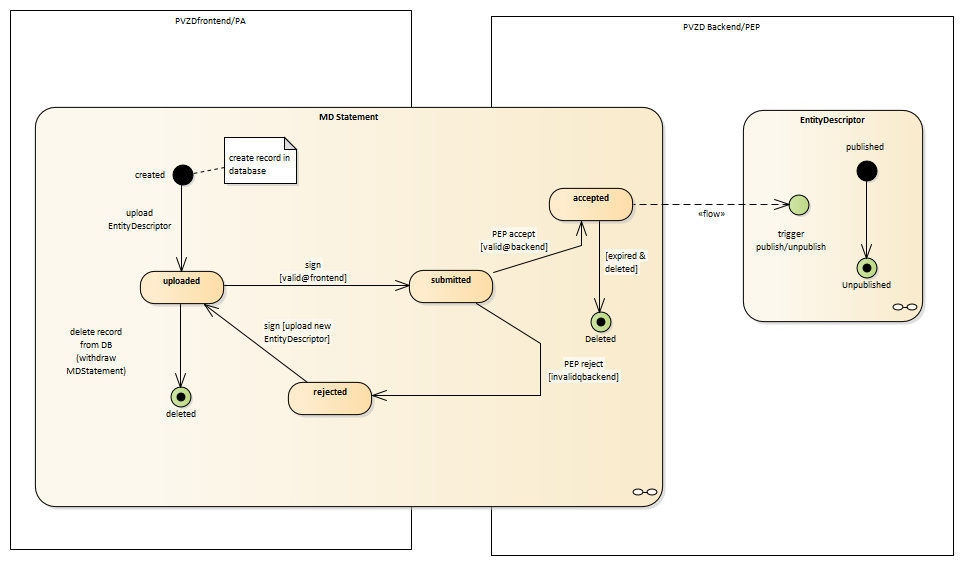
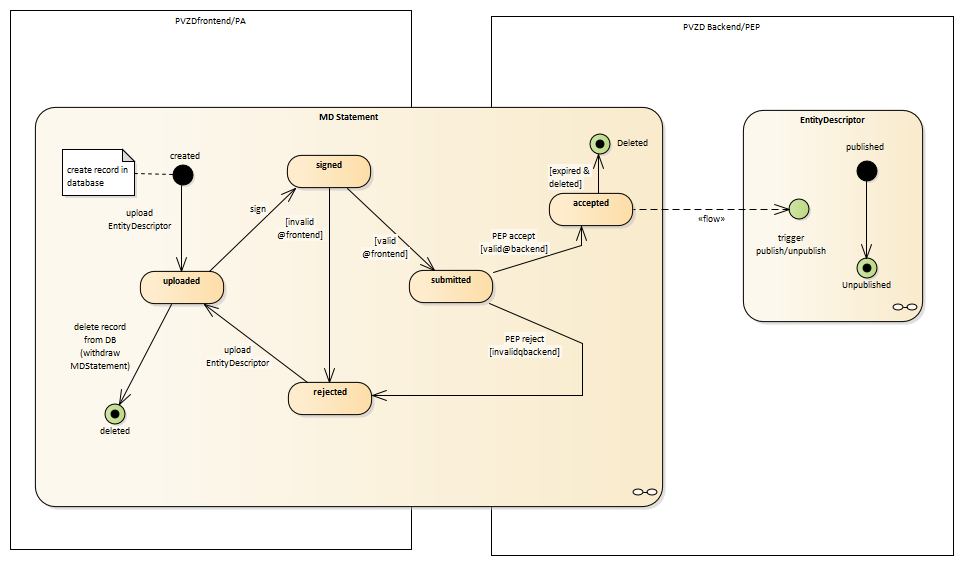
MDS: refactor sign_and-update changelist action (separate module)

diff --git a/portaladmin/models/MDstatement.py b/portaladmin/models/MDstatement.py
@@ -24,6 +24,7 @@ class MDstatementAbstract(models.Model):
         super(MDstatementAbstract, self).__init__(*args, **kw)
         self._ed_uploaded_old = self.ed_uploaded
         self._ed_signed_old = self.ed_signed
+        self._ed_file_upload_name_old = self.ed_file_upload.name
 
     status = models.CharField(
         verbose_name='Workflow Status',
@@ -161,23 +162,36 @@ class MDstatementAbstract(models.Model):
         pass
 
     def save(self, *args, **kwargs):
-        if self.ed_file_upload and self.ed_file_upload.file:
-            self.ed_uploaded = self.ed_file_upload.file.read().decode('utf-8')
-            self.ed_signed = None
-        if self.status == STATUS_ACCEPTED:
-            raise ValidationError(_('Cannot change if status = ' + STATUS_ACCEPTED), code='invalid')
-        if self.ed_uploaded:
-            if self.ed_uploaded != self._ed_uploaded_old and \
-               self.status in (STATUS_CREATED, STATUS_REJECTED, STATUS_UPLOADED):
-                self.status = STATUS_UPLOADED
+        def _fail_if_updating_not_allowed():
+            if self.status == STATUS_ACCEPTED:
+                raise ValidationError(_('Cannot change if status = ' + STATUS_ACCEPTED), code='invalid')
+
+        def _read_uploaded_file_on_change():
+            if self.ed_file_upload.file:
+                ed_file_upload_name_new = self.ed_file_upload.file.name or ''
+                if self._ed_file_upload_name_old != ed_file_upload_name_new:
+                    self.ed_uploaded = self.ed_file_upload.file.read().decode('utf-8')
+                    self.ed_signed = None
+                elif not self.ed_uploaded:
+                    self.ed_uploaded = self.ed_file_upload.file.read().decode('utf-8')
+
+        def _set_status_on_upload():
+            if self.ed_uploaded:
+                if self.ed_uploaded != self._ed_uploaded_old:
+                    if self.status in (STATUS_CREATED, STATUS_REJECTED):
+                        self.status = STATUS_UPLOADED
+
+        def _set_computed_fields():
                 self.ed_uploaded_filename = self.ed_file_upload.file.name
                 self.entityID = self._get_entityID()
-                super().save(*args, **kwargs)
-        else:
-            self.status = STATUS_CREATED
-            self.ed_uploaded_filename = self.ed_file_upload.file.name
-            super().save(*args, **kwargs)
-        pass
+
+
+        _fail_if_updating_not_allowed()
+        _read_uploaded_file_on_change()
+        _set_status_on_upload()
+        _set_computed_fields()
+        super().save(*args, **kwargs)
+
 
     def _get_entityID(self):
         self.validate()

diff --git a/portaladmin/admin/MDstatement.py b/portaladmin/admin/MDstatement.py
@@ -6,6 +6,7 @@ from django.contrib import messages
 from django.contrib.admin import site
 from django.utils import timezone
 from django.conf import settings
+from .mds_sign_and_update import mds_sign_and_update
 from ..constants import *
 from ..signals import md_statement_edit_starts
 from ..models import CheckOut, MDstatement
@@ -32,7 +33,6 @@ site.disable_action('delete_selected')
 @admin.register(MDstatement)
 class MDstatementAdmin(admin.ModelAdmin):
     form = MDstatementForm
-    actions = ['sign_ed']
     save_on_top = True
     readonly_fields = (
         'authorized',
@@ -131,31 +131,15 @@ class MDstatementAdmin(admin.ModelAdmin):
 
         return super().change_view(request, object_id, form_url, extra_context)
 
-    def sign_ed(modeladmin, request, queryset):
-        if len(queryset.all()) > 1:
-            messages.error(request, "Bitte genau einen EntityDescriptor auswählen")
-        this_rec = queryset.all()[0]
-        ed_pk = this_rec.pk
-        ed = SAMLEntityDescriptorFromStrFactory(this_rec.ed_uploaded)
-        signed_contents = MDstatementAdmin._request_xmldsig(ed, request)
-        mds = MDstatement.objects.get(pk=ed_pk)
-        mds.ed_signed = signed_contents
-        mds.status = STATUS_REQUEST_QUEUE
-        mds.save()
-        messages.info(request, "EntityDescriptor signiert und Status auf 'submitted' gesetzt")
-    sign_ed.short_description = "EntityDescriptor mit lokaler BKU signieren"
+    actions = ['sign_and_update_action']
 
-    @staticmethod
-    def _request_xmldsig(ed, request) -> str:
-        ed.remove_enveloped_signature()
-        md_namespace_prefix = ed.get_namespace_prefix()
+    def sign_and_update_action(self, request, queryset):
         try:
-            return creSignedXML(ed.get_xml_str(),
-                               sig_type='enveloped',
-                               sig_position='/' + md_namespace_prefix + ':EntityDescriptor')
+            mds_sign_and_update(self, request, queryset)
+            messages.info(request, "EntityDescriptor signiert")
         except(Exception) as e:
             messages.error(request, "Fehler bei der Signaturanforderung: " + str(e))
-            raise
+    sign_and_update_action.short_description = "EntityDescriptor mit lokaler BKU signieren"
 
     def get_action_choices(self, request):
         # remove default blank selection in action drop-down

diff --git a/portaladmin/admin/mds_sign_and_update.py b/portaladmin/admin/mds_sign_and_update.py
@@ -1,0 +1,39 @@
+from django.contrib import messages
+from ..constants import *
+from ..models import MDstatement
+from PVZDpy.cresignedxml import creSignedXML
+from PVZDpy.samled_validator import SamlEdValidator
+from PVZDpy.samlentitydescriptor import SAMLEntityDescriptorFromStrFactory
+
+
+def mds_sign_and_update(_modeladmin, request, queryset):
+    mds = _get_selected_record_from_queryset()
+    mds.ed_signed = _request_xmldsig(mds.ed_uploaded)
+    self.status = STATUS_SIGNATURE_APPLIED  # to be overwritten by revalidate
+    _revalidate_after_signing()
+    mds.save()
+
+
+def _get_selected_record_from_queryset() -> MDstatement:
+    if len(queryset.all()) > 1:
+        messages.error(request, "Bitte genau einen EntityDescriptor auswählen")
+    this_rec = queryset.all()[0]
+    return MDstatement.objects.get(pk=this_rec.pk)
+
+
+def _request_xmldsig(ed_to_be_signed) -> str:
+    ed = SAMLEntityDescriptorFromStrFactory(ed_to_be_signed)
+    ed.remove_enveloped_signature()
+    md_namespace_prefix = ed.get_namespace_prefix()
+    return creSignedXML(ed.get_xml_str(),
+                        sig_type='enveloped',
+                        sig_position='/' + md_namespace_prefix + ':EntityDescriptor')
+
+
+def _revalidate_after_signing():
+    ed_val = SamlEdValidator(getPolicyDict_from_json())
+    self.ed_val.validate_entitydescriptor(ed_str_new=self.ed_signed, sigval=True)
+    if self.ed_val.authz_ok:
+        self.status = STATUS_REQUEST_QUEUE
+    else:
+        self.status = STATUS_REJECTED
